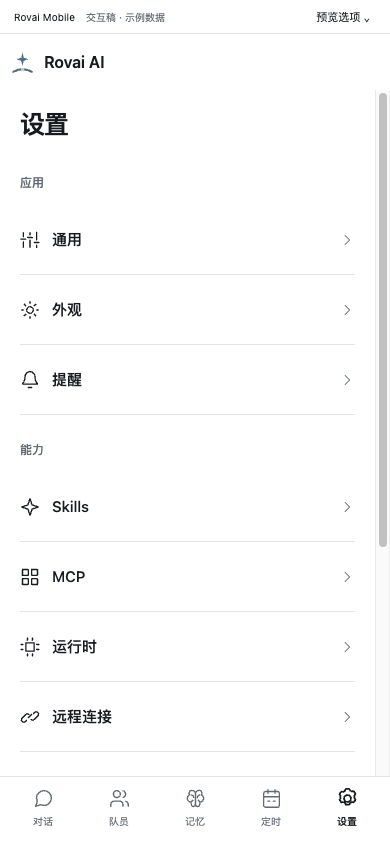
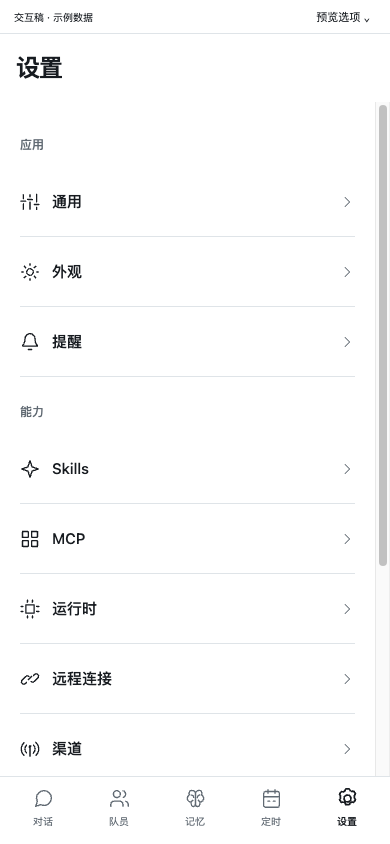
docs: refine mobile creation, project lists and automation member review

diff --git a/docs/ui/host-web-mobile.md b/docs/ui/host-web-mobile.md
@@ -12,7 +12,8 @@ last_updated: 2026-09-14
 分支合并提交 `59249423`；对照已经具备发送、编辑、执行和管理能力的正式 WebUI，当前网络合同见
 [Host Web v2](../contracts/host-web-v2.md)。早期只读稿不再代表本稿范围。
 
-第二稿按用户的 25 项反馈收敛；“远程连接”分组同步修改共享生产导航，其余为 Mobile 交互稿。
+第三稿继承 25 项收敛，继续优化无底色新建图标、项目多会话分页、单一执行队员与页眉。
+前轮“远程连接”分组已同步修改共享生产导航；本轮只调整 Mobile 交互稿。
 交付为 Camp 附件中的单文件 `rovai-mobile.html`。消息、发布、文件和更新均为示例，不连接 Host，不改
 已安装 App，不代表生产 Mobile 或实体手机验收。本地原型按[仓库规则](../README.md#本地原型)保持忽略，
 当前文档与构建不依赖该目录存在。
@@ -22,12 +23,20 @@ last_updated: 2026-09-14
 采用 UI-UX-Pro-Max 的触摸、导航、键盘与焦点指导；视觉以 [DESIGN](../../DESIGN.md) 和正式
 [theme.css](../../packages/ui/src/theme.css) 为准：Porcelain Day / Steel Night、完整 Rovai 标志、原生字体、
 平面列表与轻分隔。按本轮明确要求，Mobile 页面阅读面使用白 / 黑背景；其余品牌、身份、证据与控件继续
-使用既有语义 token。此处不改变 Desktop 主题。创建按钮沿用日间黑色、夜间浅色的会话主操作 token。
+使用既有语义 token。此处不改变 Desktop 主题。手机根页面与项目行的新建入口使用无底色的圆圈加号，
+保留 44px 触摸区域；弹窗内“新建”等提交按钮继续使用既有会话主操作 token。
 
 根页面使用五个带文字的底部入口：对话、队员、记忆、定时、设置。详情页一个返回按钮，返回恢复阅读位置；
-设置首页品牌在顶部，没有桌面的折叠、后退、前进三按钮。进入对话后移除全局底栏，把空间留给输入。
+普通页面顶部只显示页面标题和操作，没有重复的 logo、品牌行或 slogan；登录与关于保留必要品牌识别。
+设置没有桌面的折叠、后退、前进三按钮。进入对话后移除全局底栏，把空间留给输入。
 对话内通过“对话 / 执行 / 任务”切换，不把 Tab 切换压入返回历史；标题返回始终退出到对话列表。
 项目打开和搜索收为标题旁的小图标，搜索点开后才显示输入框；会话行只保留较小标题、时间与蓝色新动态点。
+
+项目图标采用正式 CampNavigation 的圆角文件夹开合轮廓；对照过 [Lucide Folder Open](https://lucide.dev/icons/folder-open)
+与 [Circle Plus](https://lucide.dev/icons/circle-plus) 的线性图标形态，未引入图标依赖。稿中 Rovai 项目放入 11 个
+非置顶会话，另有个人笔记与快速对话，可核对不同长度的分组。沿用当前导航的 5 个初始条目及每次增加 5 个：
+“查看更多”追加，“收起”恢复 5 个并把阅读位置带回该文件夹；文件夹本身还可整体开合。分组状态独立，
+打开会话后返回与刷新保留状态；搜索显示完整匹配，不受折叠与分页截断。
 
 发送区与保存操作位于底部；拍照、照片图库和文件选择分别可达，文件添加面板没有“引用当前附件”。
 不设置独立接收者按钮和发送旁的更多菜单；文件右侧提供 @ 入口，默认接收提示沿用生产 Composer。
@@ -48,13 +57,15 @@ HTML 先展示可交互内容，源码作为次级
 | 附件 | HTML 预览/源码、Markdown/文本、引用与下载 | 共享 FilePreview / Viewer 与浏览器资源适配 |
 | 队员 | 身份、职责；页内 Runtime、模型、推理强度、权限，运行时选择带正式图标；无 Skills/MCP 配置入口 | MemberManagement、MemberRuntimeParameters |
 | 记忆 | 共同/队员/队员间、归属、审核、修订、停止沿用、恢复与遗忘 | MemoryLibrary |
-| 定时任务 | 开关、指令、时间、时区、Cron、队伍、目录与结果 | AutomationWorkspace、AutomationEditor |
+| 定时任务 | 开关、指令、时间、时区、Cron、单一执行队员、目录与结果；带头像单选，修改与刷新保留 | AutomationWorkspace、AutomationEditor |
 | 应用设置 | 通用、默认队伍、外观、提醒；字号使用两端 A 的滑条，无“显示与动效” | 共享正式设置与浏览器适配 |
 | 能力与支持 | Skills 生效组、MCP、Runtime、远程连接（渠道上方）、监控、诊断、关于；退出只在远程连接 | 共享管理页；原生操作按 Host 能力适配 |
 
 新建对话中的一键创建选择仅在创建成功后保存队伍与开关，取消不改变偏好；目录和名称不作为默认值。
 通用设置和新建弹窗的队长选择都带头像。队员身份与运行时切换保留页内未保存编辑。
 对话内队伍面板保留私聊和“+ 邀请”，不提供运行时管理；Mobile 不展示会话地图或全局通知铃铛。
+定时任务对照 `AutomationEditor` 的 `draft.memberId`，每个定义只选择一位执行队员，列表展示该队员头像与名称；
+前稿的“执行队伍”及多选页属于错误呈现，第三稿已移除，未增加新的多人定时执行能力。
 
 字号交互参考 [Apple 的文字大小滑条](https://support.apple.com/en-za/guide/iphone/iphd6804774e/ios)和
 [Android 的字号与预览](https://support.google.com/accessibility/answer/11183305?hl=en)。原生 range 保留键盘操作，

diff --git a/docs/versions/v1.59/implementation-plan.md b/docs/versions/v1.59/implementation-plan.md
@@ -15,6 +15,11 @@ last_updated: 2026-09-14
 
 ## 本轮：最新执行态与 Mobile 交互稿
 
+Mobile 第三稿进一步将根页面与项目新建改为无底色圆圈加号，移除普通页顶部重复品牌和口号，文件夹采用生产
+圆角开合图标。11 个示例项目会话覆盖 5 → 10 → 11 条、“查看更多 / 收起”、独立文件夹开合与返回/刷新恢复。
+定时任务按正式 `AutomationEditor.memberId` 改为单一执行队员，带头像单选并保存；删除前稿错误的“执行队伍”页。
+这次只调整交互稿与证据，不改变生产业务或 Host 接口。
+
 Mobile 第二稿根据 25 项反馈收敛：白 / 黑阅读面、紧凑对话列表、按需搜索和项目入口、普通登录页复用、
 对话内审批、带头像和一键创建的新建面板、页内运行时编辑、Skills 生效组、多队员执行、@ 与既有默认接收提示、
 用户消息靠右、圆形回到最新、A 字号滑条。移除铃铛、会话地图、队员页的 Skills/MCP、执行中的队员配置，以及

diff --git a/docs/ui/README.md b/docs/ui/README.md
@@ -54,7 +54,7 @@ MCP 与 Skills 的列表/详情、导入、启停和拖拽合同见 [Capability 
 - [设置 · 远程连接交互稿](host-remote-connection.md)：正式设置菜单及同组件交互稿，含本机管理、地址发现、令牌重复读取与浏览器连接状态。
 - [Desktop/Web 宽屏对照稿](host-web-parity.md)：阶段 1–3 当前收敛入口，行为差异表、生产组件 fixture 与实际验收边界。
 - [Host Web 与 Mobile 交互提案](host-web-mobile.md)：沿用现有视觉系统，第五阶段先供交互评审；不是生产 Mobile 能力。
-  2026-09-14 第二稿按 25 项反馈收敛，覆盖当前 WebUI 业务和多队员执行态；Server 有更新入口，Desktop 托管没有更新。
+  2026-09-14 第三稿补齐项目多会话分页、单一执行队员和简洁页眉，继承前稿收敛；Server 有更新入口，Desktop 托管没有更新。
 
 ## 平台差异
 
